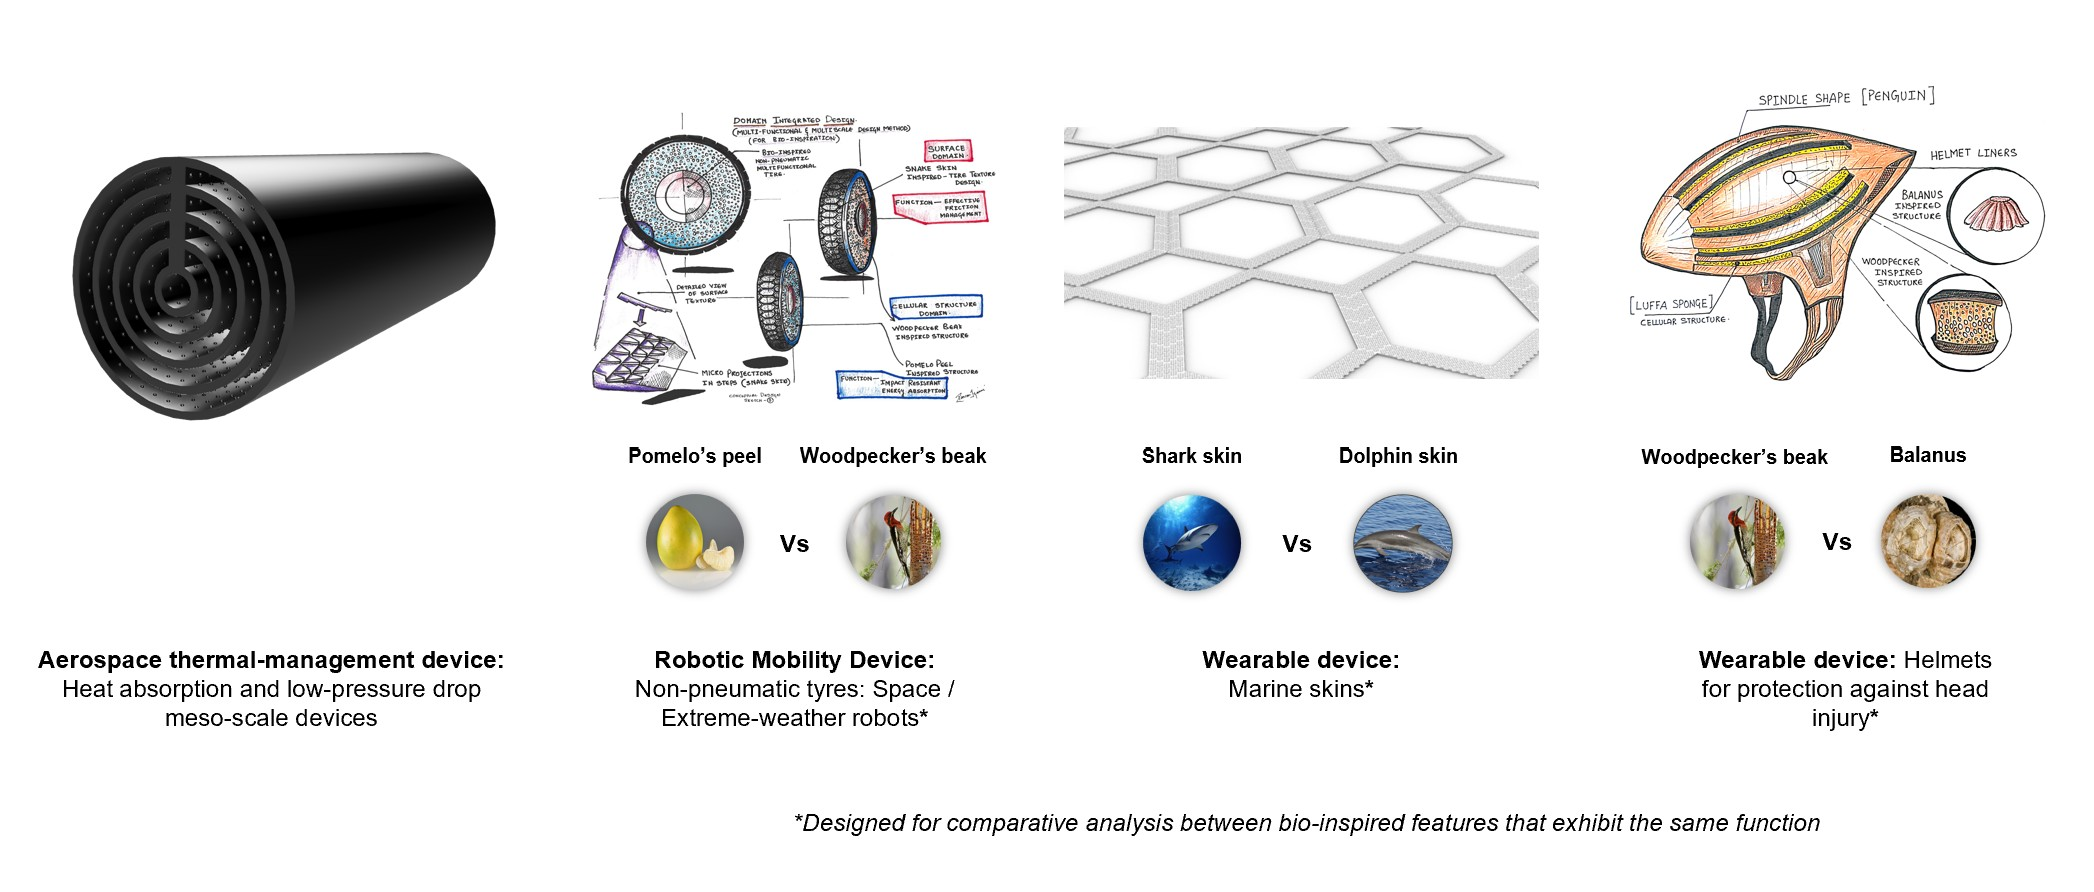
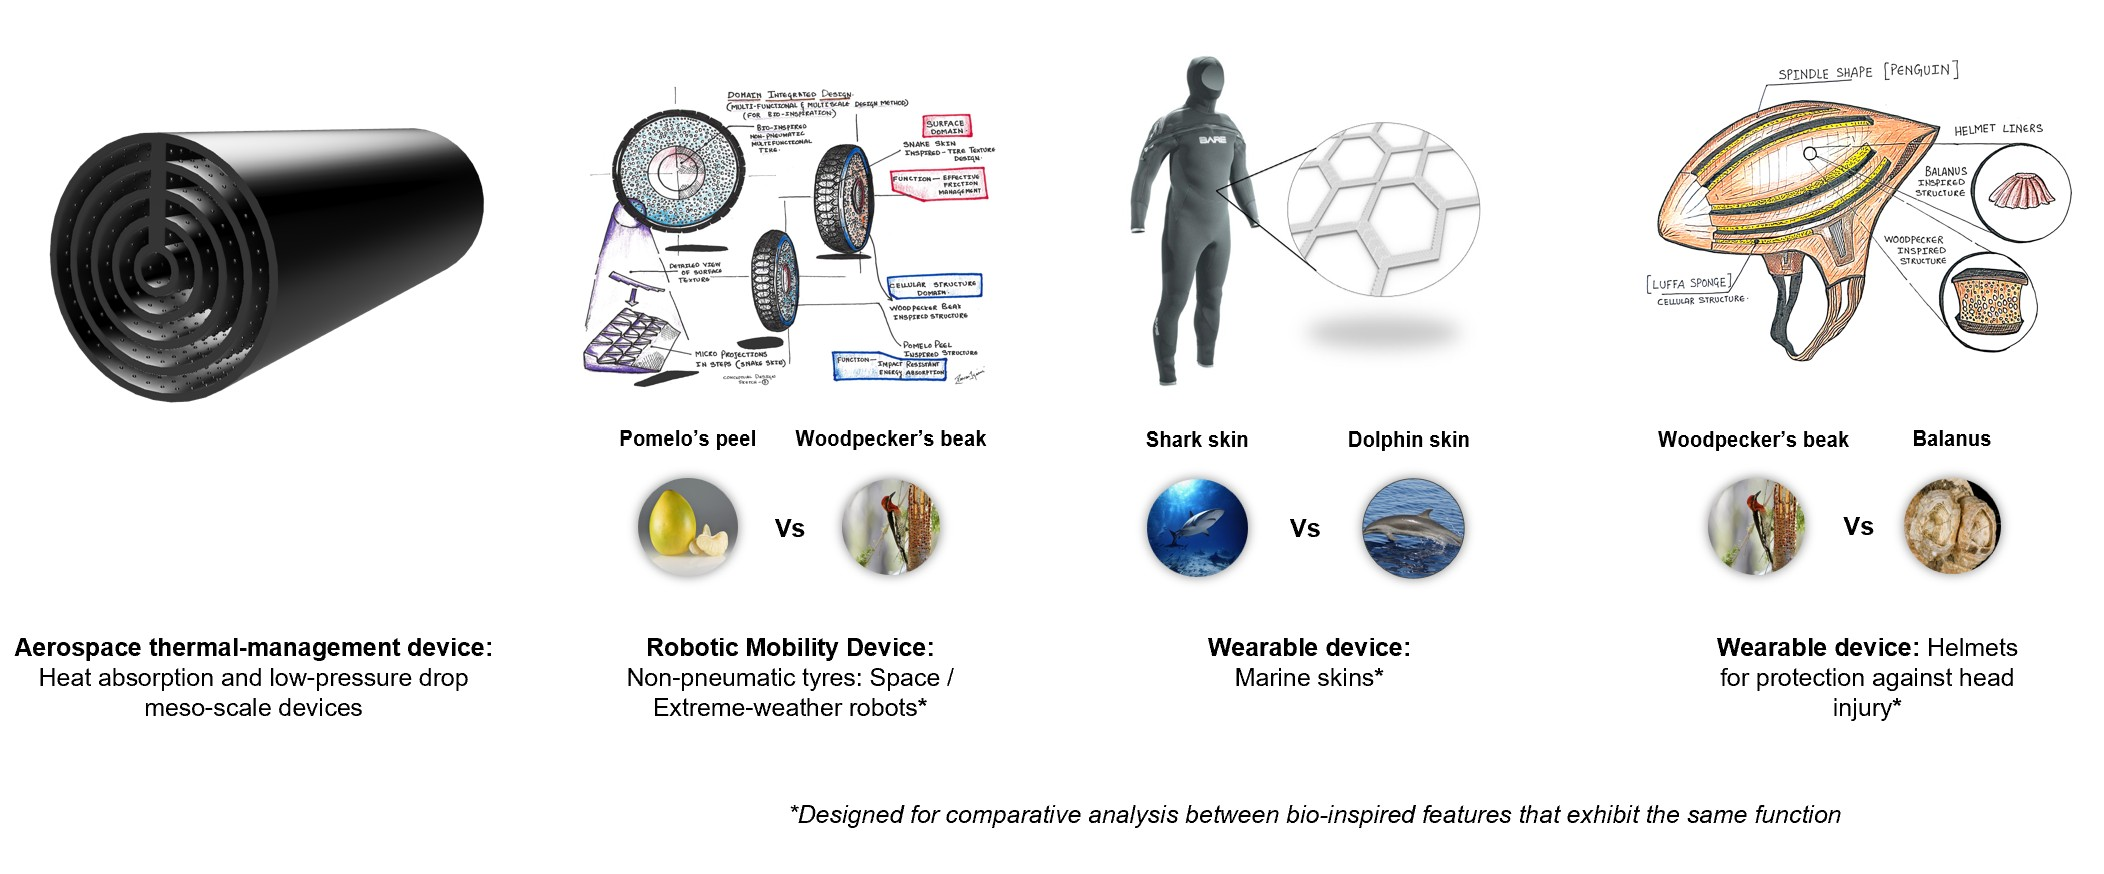
seventy one commit

diff --git a/index.html b/index.html
@@ -36,8 +36,8 @@
         
     <div id ="header">
             <p>
-                <b>MBID</b> stands for <b><u>M</u>ultifunctional <u>B</u>io-<u>i</u>nspired <u>D</u>esign</b> - a biological morphology-informed, rule-based concept design framework 
-                developed to translate functional biological structural strategies into novel <b>multifunctional bio-inspired morphology-driven device and structural architectures</b>.
+                <b>MBID</b> stands for <b><u>M</u>ultifunctional <u>B</u>io-<u>i</u>nspired <u>D</u>esign,</b> is a biological morphology-informed, 
+                rule-based concept design framework developed to translate functional biological structural strategies into novel multifunctional bio-inspired morphology-driven device and structural architectures.
             </p>
                 
     </div>
@@ -46,32 +46,29 @@
             <h2><b>APPLICATION</b></h2> 
                 
                 <p>
-                    <b>MBID v1.0</b> operates at the <b>early stages of innovation</b>, supporting concept definition, embodiment development, and functional verification. 
-                    Concepts demonstrating technical feasibility and strategic potential advance to detailed product development and commercialisation. The framework enables the <b>structured combination of non-obvious 
-                    or intentionally selected functions</b>, resulting in distinctive multifunctional device and structural concepts.    
+                    <b>MBID v1.0</b> operates at the <b>early stages of innovation</b>, supporting concept generation, embodiment development, and initial functional verification. 
+                    Concepts demonstrating technical feasibility and strategic relevance can then progress to detailed product development and commercialisation. 
+                    The framework enables the structured <b>combination of non-obvious or intentionally selected functions</b>, resulting in distinctive multifunctional devices and structural concepts.    
                 </p>
 
-                <h4><b>DESIGN SPACE</b></h4>
+                <h3><b>DESIGN SPACE AND APPLICATION SCALE</b></h3>
                 <p>
-                    <b>MBID v1.0</b> is applied at the early stages of complex, loosely defined design problems that require the integration of multiple functions under strict physical and environmental constraints, 
-                    across sectors including medical and surgical devices, aerospace and defence systems, automotive and marine technologies, wearable systems, bio-inspired robotics, energy systems, and affordable technologies for resource-constrained environments
+                    The <b>MBID v1.0</b> design space is characterised by unstructured operating environments, the need to integrate multiple, often conflicting functions, constraint-heavy design contexts, and <b>micro to mesoscale</b> solution spaces where scale-dependent physical laws govern feature-level function generation.
+                </p>
+
+                <p>
+                    <b>MBID v1.0</b> is particularly suited to problems where functionality emerges primarily from geometric and material feature interactions across scales rather than from assemblies of discrete components. 
+                    It is therefore most directly applicable to design problems satisfying the above characteristics, regardless of industrial sectors. Examples include medical and surgical devices, bio-inspired robotic systems, and technologies for resource-constrained environments.
                 </p>
                 
                 <div id="header">
+                        
                         <div class="row">
+                            <img src="images/design space.jpg" width ="40%" alt="design space">  
                             <img src="images/early-stage1.jpg" width ="50%" alt="Applications Overview2">
-                            <img src="images/design space.jpg" width ="50%" alt="design space">    
                             <!--make sure that the total width of pic 1 and pic 2 is 100% and should not cross 100%-->
+                        </div>
                 </div>
-
-                    
-                <h4><b>APPLICATION SCALE</b></h4>
-                <p>
-                    <b>MBID v1.0</b> addresses morphology-driven design <b>across scales</b>, from architectural systems to macro-scale devices and miniature systems. The framework is particularly suited to <b>morphology-driven miniature deivces and structures (micro- to centimetre scale)</b>, 
-                    where functionality is governed by geometry and material properties rather than assemblies of discrete components.
-                </p>
-
-                <img src="images/applications.jpg" class="img-center" width ="65%" alt="Applications">
                 
     </div>
             
@@ -86,7 +83,7 @@
         </p>
 
         <p>
-            TThe framework facilitates systematic early-stage concept generation by <b>integrating geometry and material across multiple length scales</b> within a single structure, 
+            The framework facilitates systematic early-stage concept generation by <b>integrating geometry and material across multiple length scales</b> within a single structure, 
             enabling functional coupling to emerge from form and material instead of relying on discrete components or add-on subsystems.
         </p>
 

diff --git a/pages/method.html b/pages/method.html
@@ -194,7 +194,7 @@
             <b>RELATED PUBLICATIONS</b>
         </p> 
             <p><em>
-                1. Velivela, P.T., 2024. Multifunctional Bio-inspired Design (MBID): A Rapid Idea Generation System for Multifunctional Bio-inspired Designs. McGill University (Canada) - (PhD Thesis)
+                1. Velivela, P.T., 2024. Multifunctional Bio-inspired Design (MBID): A Rapid Idea Generation System for Multifunctional Bio-inspired Designs. McGill University (Canada) - (PhD Thesis). Link: <u>https://escholarship.mcgill.ca/concern/theses/pg15bm47s</u>
             </em></p>
 
             <p><em>
